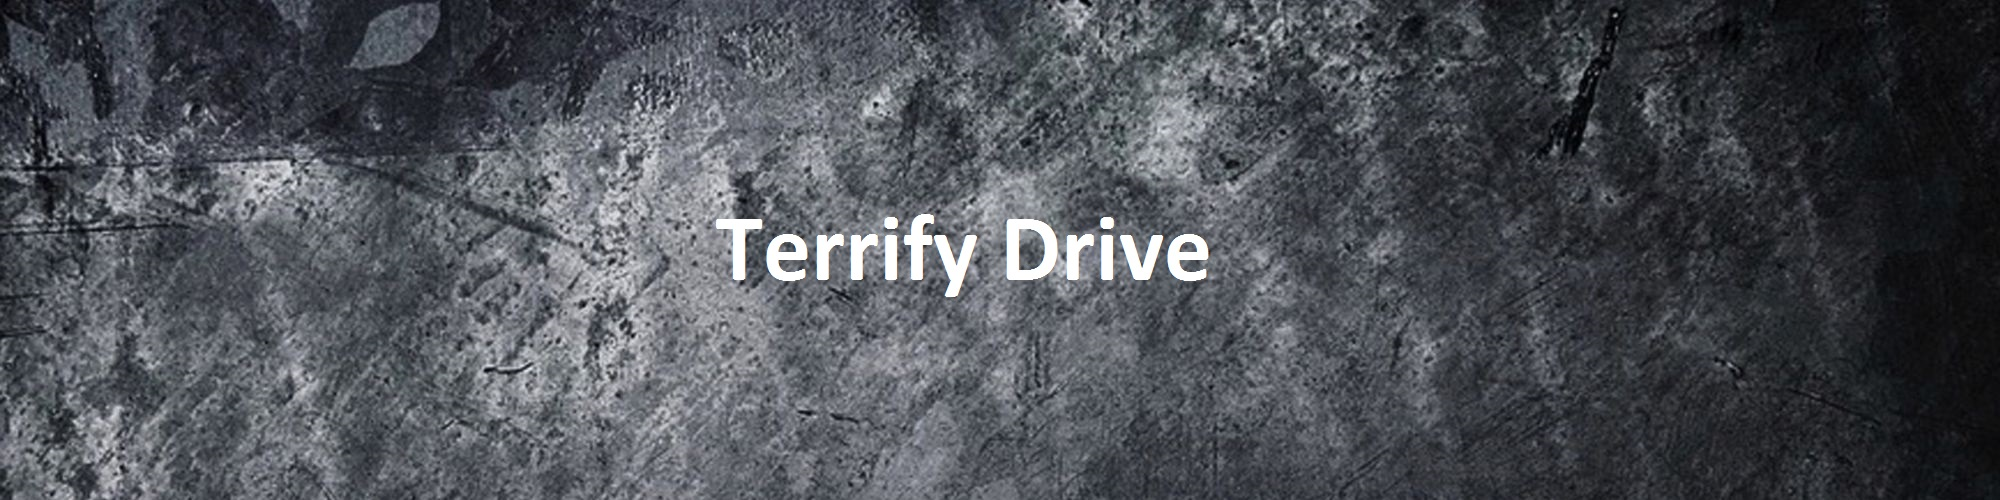
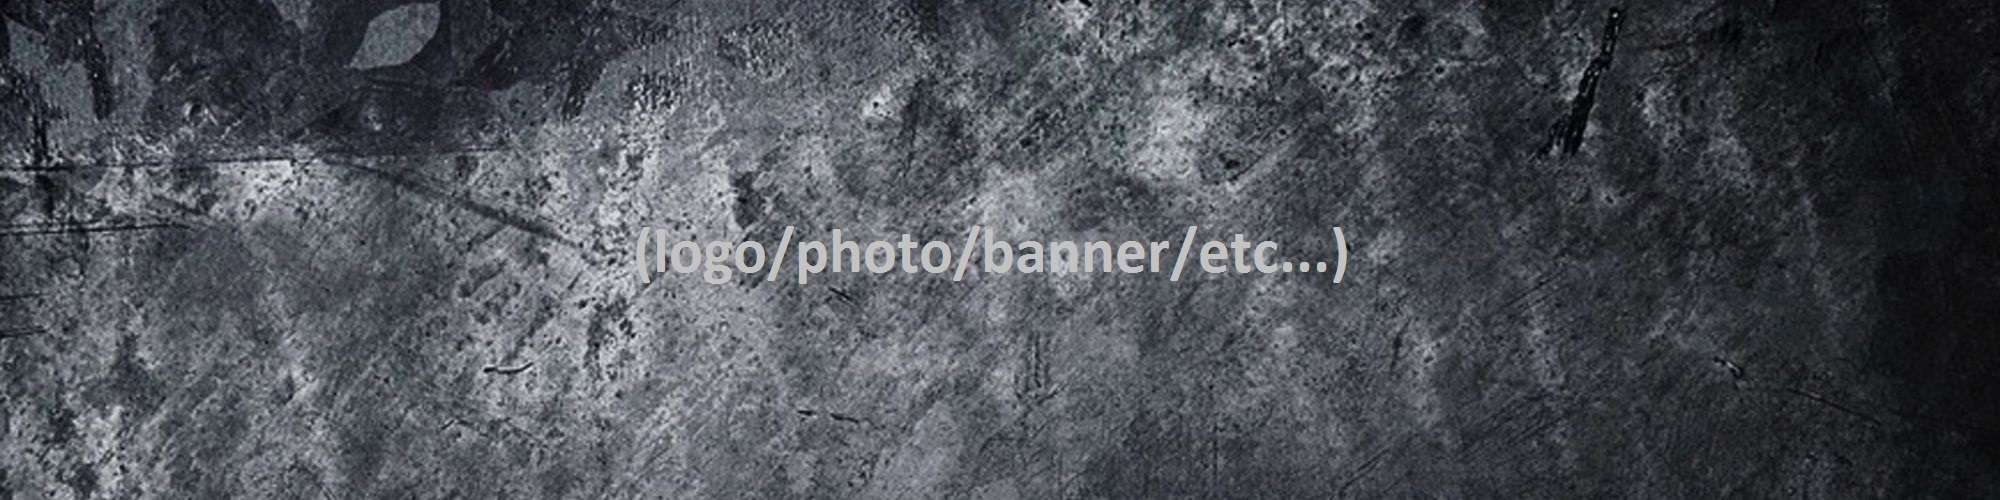
*

Changed region(s): [[0.31, 0.42, 0.682, 0.6]]

diff --git a/index.html b/index.html
@@ -9,25 +9,95 @@
 
     <link href="./assets/bootstrap/css/bootstrap.min.css" rel="stylesheet">
     <link href="./assets/fontawesome/css/all.min.css" rel="stylesheet">
+
+    <!-- fonts.google.com -->
+    <style>
+        @import url('https://fonts.googleapis.com/css2?family=Bebas+Neue&display=swap');
+    </style>
+
     <link href="./css/main.css" rel="stylesheet">
 </head>
 
 <body class="h-100">
 
-    <div class="contentwrapper">
-        <header></header>
-        <main>
-            <div class="container">
-                <img src="./img/terrify_drive_banner_4_1.jpg" class="img-fluid" alt="...">
-                <div style="margin-top: -100px;">
-                    <span>sdgdfhdfh</span>
-                </div>
-                <div style="margin-top: 100px;">
-                    <span>asfsdgsdg<i class="fab fa-instagram"></i></span>
+    <div class="pagebackground">
+    </div>
+
+    <div class="container-xxl">
+
+        <div class="contentwrapper">
+            <img src="./img/terrify_drive_banner_4_1.jpg" class="img-fluid" alt="...">
+            <div class="container-xxl">
+                <div style="margin-top: -60px;">
+
+                    <!-- banner -->
+                    <div>
+                        <div class="row">
+                            <div class="col-6">
+                                <span class="custom-header-text">Terrify Drive</span>
+                            </div>
+                            <div class="col-6">
+                                <div class="custom-fa-btns-block">
+                                    <a class="custom-fa-btn-a" href="https://vk.com/terrifydrive">
+                                        <span class="fa-stack">
+                                            <i class="fas fa-circle fa-stack-2x fa-inverse"></i>
+                                            <i class="fab fa-vk fa-stack-1x custom-fa-btn"></i>
+                                        </span>
+                                    </a>
+                                    <a class="custom-fa-btn-a" href="https://www.facebook.com/terrifydrive">
+                                        <span class="fa-stack">
+                                            <i class="fas fa-circle fa-stack-2x fa-inverse"></i>
+                                            <i class="fab fa-facebook-f fa-stack-1x custom-fa-btn"></i>
+                                        </span>
+                                    </a>
+                                    <a class="custom-fa-btn-a" href="https://www.youtube.com/channel/UCsIHFfuly9ZMk4y7xbc2k4A">
+                                        <span class="fa-stack">
+                                            <i class="fas fa-circle fa-stack-2x fa-inverse"></i>
+                                            <i class="fab fa-youtube fa-stack-1x custom-fa-btn"></i>
+                                        </span>
+                                    </a>
+                                    <a class="custom-fa-btn-a" href="https://www.instagram.com/terrifydrive">
+                                        <span class="fa-stack">
+                                            <i class="fas fa-circle fa-stack-2x fa-inverse"></i>
+                                            <i class="fab fa-instagram fa-stack-1x custom-fa-btn"></i>
+                                        </span>
+                                    </a>
+                                </div>
+                            </div>
+                        </div>
+                        <div class="row">
+                            <div class="col">
+                                <br />
+                            </div>
+                        </div>
+                    </div>
+
+                    <!-- info -->
+                    <div>
+                        <div class="row">
+                            <div class="col">
+                                ...<br />
+                                ...<br />
+                                ...<br />
+                                <br /><br /><br /><br /><br /><br /><br /><br /><br /><br /><br /><br /><br /><br /><br /><br /><br /><br /><br /><br /><br /><br />
+                                <br /><br /><br /><br /><br /><br /><br /><br /><br /><br /><br /><br /><br /><br /><br /><br /><br /><br /><br /><br /><br /><br />
+                                ...<br />
+                                ...<br />
+                                ...<br />
+                            </div>
+                        </div>
+                    </div>
+
                 </div>
             </div>
-        </main>
-        <footer></footer>
+        </div>
+
+        <div class="footerwrapper">
+            <div>
+                (footer)
+            </div>
+        </div>
+
     </div>
 
     <script src="./assets/bootstrap/js/bootstrap.bundle.min.js"></script>

diff --git a/css/main.css b/css/main.css
@@ -2,7 +2,7 @@
  * main.css
  */
 
-.contentwrapper:before {
+.pagebackground:before {
     content: "";
     position: fixed;
     left: 0;
@@ -15,7 +15,7 @@
     background-size: cover;
     height: 100vh;
     width: 100%;
-    transform: scale(1.05);
+    /*transform: scale(1.05);*/
     -webkit-filter: blur(6px);
     -moz-filter: blur(6px);
     -o-filter: blur(6px);
@@ -23,9 +23,34 @@
     filter: blur(6px);
 }
 
-.contentwrapper {
+.pagebackground {
     position: fixed;
     left: 0;
     right: 0;
-    z-index: 0;
+    z-index: -9999;
+}
+
+.contentwrapper {
+    background-color: white;
+}
+
+.custom-header-text {
+    font-size: 40px;
+    font-family: 'Bebas Neue', cursive;
+    color: white;
+}
+
+.custom-fa-btns-block {
+    font-size: 22px;
+    text-align: right;
+    padding-right: 10px;
+}
+
+.custom-fa-btn-a {
+    color: inherit; /* blue colors for links too */
+    text-decoration: inherit; /* no underline */
+}
+
+.custom-fa-btn:hover {
+    color: #e10600;
 }
